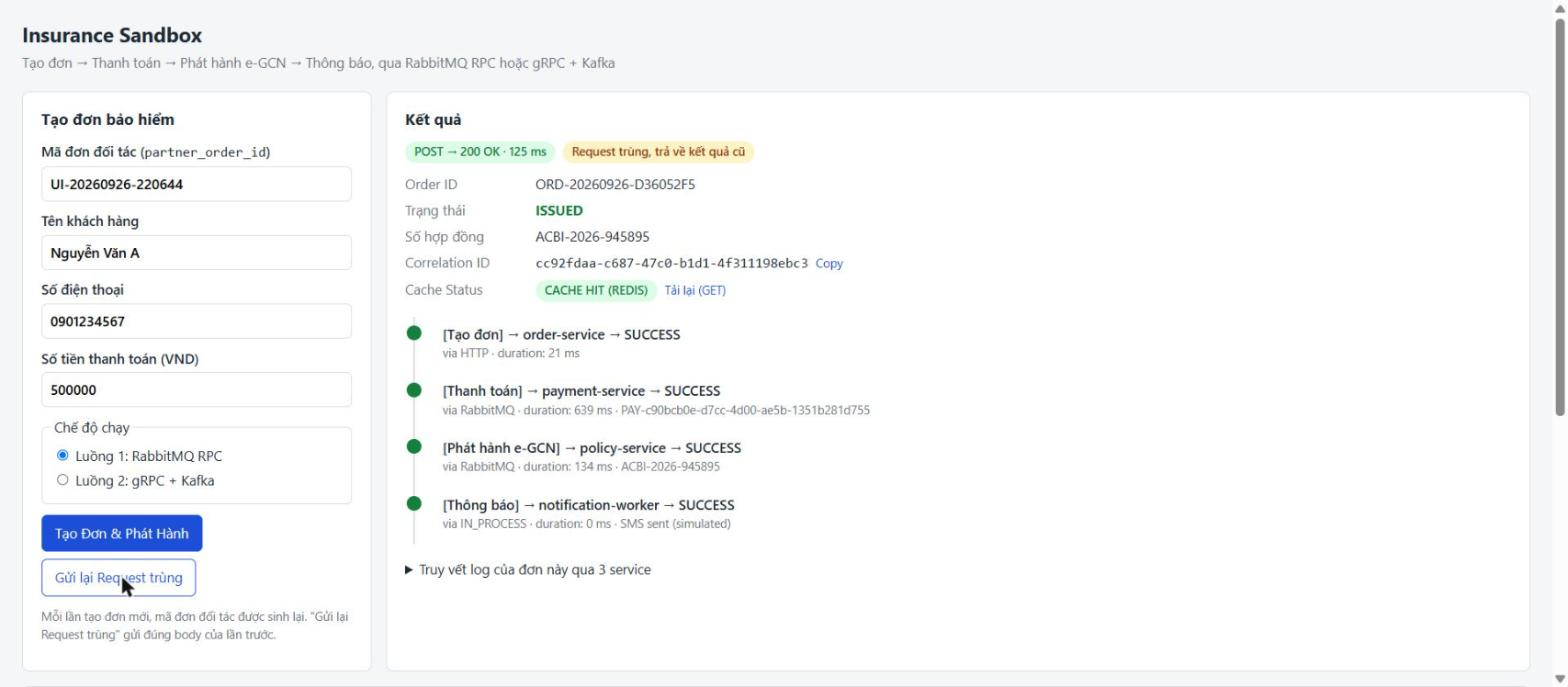
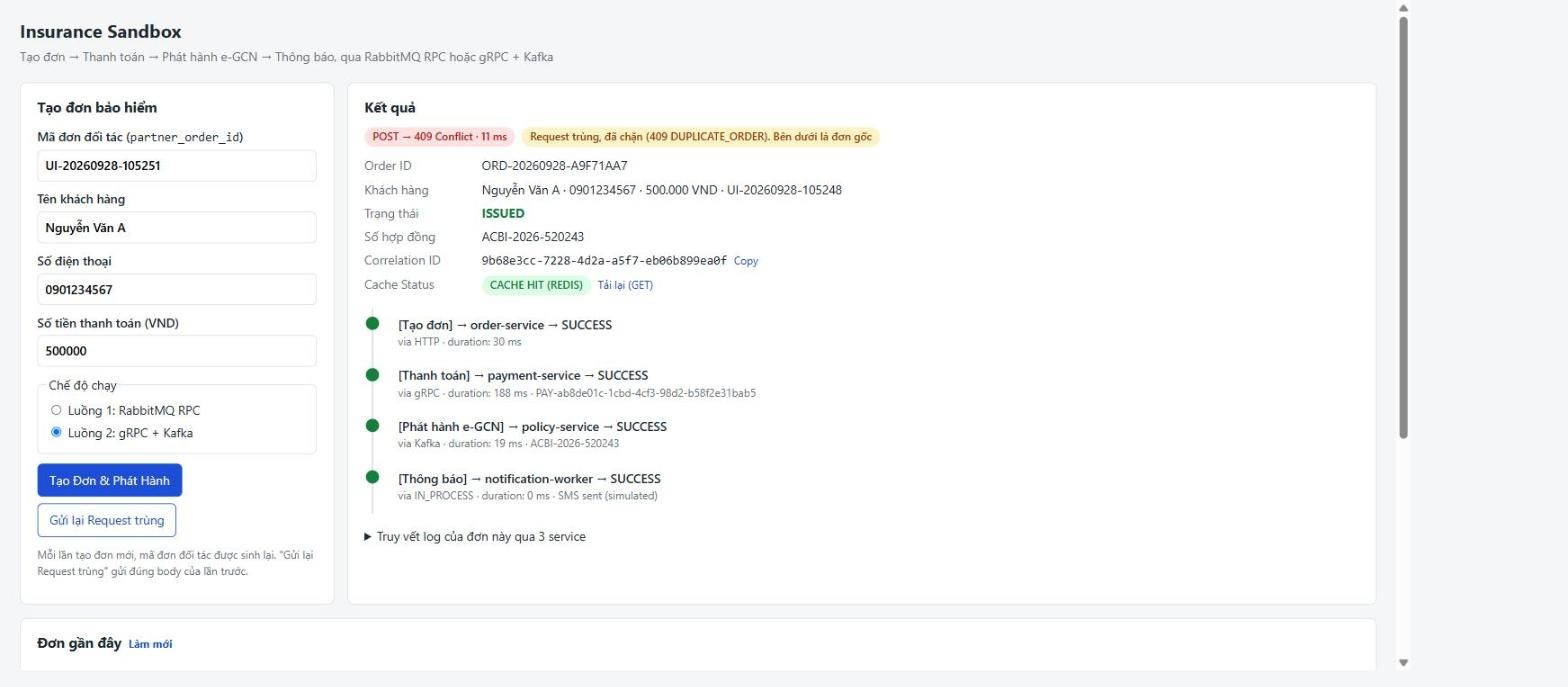
docs: document D21 duplicate refusal, update Postman and screenshot 04
D4 and D21 in design-decisions, README (API table, UI demo step 4, design
decisions), sequence diagram and failure catalog F2. Postman: the duplicate
request expects 409 DUPLICATE_ORDER, a new request checks
DUPLICATE_ORDER_MISMATCH (newman: 7 requests, 9 assertions, 0 failed).
Screenshot 04 retaken with the new badge.

diff --git a/docs/design-decisions.md b/docs/design-decisions.md
@@ -1,4 +1,4 @@
-# Design Decisions (D1–D20)
+# Design Decisions (D1–D21)
 
 > Decisions taken where the assignment (`intern-messaging-grpc-kafka-assignment.md`) is open or contradicts itself, chosen for demo clarity and explainability. Kept in sync with the code; the behaviour-changing ones are also summarised in the README. F-numbers refer to [`implementation-plan.md`](implementation-plan.md).
 
@@ -22,8 +22,8 @@
   - Payment and Policy reply statuses are `RECORDED` / `REJECTED` and `ISSUED`.
   - `REJECTED` is only for invalid payments, such as a bad amount. A **repeated `partner_transaction_id` is not rejected.** Payment returns the **existing** result (`RECORDED`, same `payment_id`) with `duplicate=true`, logs `duplicate_payment_ignored`, and never records a second payment. A caller that retries after a redelivery or a lost reply then gets the correct answer.
   - Input that fails schema validation (missing fields, amount ≤ 0) returns `400` and creates no order.
-  - A duplicate `POST` with the same `partner_order_id` returns **`200 OK` with the original order's current state** plus `"idempotent_replay": true`, and never creates a new order. The UI shows a visible "duplicate, original result returned" badge.
-  - If the duplicate arrives while the original is still being created (the key exists but the order row doesn't yet), the response is `409 Conflict` (D11).
+  - A repeated `POST` with the same `partner_order_id` is **refused with `409`** and never creates a new order: `DUPLICATE_ORDER` when it is identical, `DUPLICATE_ORDER_MISMATCH` when any field differs (D21, replaces the earlier `200` + `idempotent_replay` answer). The UI shows a visible "duplicate, refused" badge next to the original order.
+  - If the duplicate arrives while the original is still being created (the key exists but the order row doesn't yet), the response is `409 ORDER_IN_PROGRESS` (D11).
 
 - **D5: Notification is a simulated in-process step in Order Service (a "Notification Worker" component).**
   - It runs once the order reaches `ISSUED`, in both flows.
@@ -83,7 +83,7 @@ The decisions below come from the failure analysis in `docs/implementation-plan.
   - *Circuit breaker (after Day 4):* one POST makes 4–6 Redis commands, and with Redis down each waited for the 300 ms timeout: about 1.9 s per order instead of ~140 ms. `RedisAvailability` now skips Redis for `sandbox.redis.retry-after` (5 s) after a failure: commands are not sent and not logged, the caller falls back to MySQL at once, and the first command after the window is a real try. `redis_circuit_open` / `redis_circuit_closed` are logged once per outage. No extra library; state is one `AtomicLong`. Measured with Docker: POST with Redis stopped 490 ms for the first order (it pays the failing command), then 176 / 188 ms, against 114–214 ms with Redis up. 5 s is short enough that Redis is used again seconds after it comes back, and long enough that an outage costs one timeout per 5 s instead of one per command.
 - **D13: Forward-only order state transitions (F15), revised Day 3 to match `OrderStatus` from PR #1.** Allowed: `CREATED → PAYMENT_RECORDED`, `CREATED | PAYMENT_RECORDED | PROCESSING_FAILED → ISSUED`, `CREATED | PAYMENT_RECORDED → PROCESSING_FAILED`. Anything else is ignored and logged as `stale_transition_ignored`; the timeline step is still recorded once. Reason: `policy.issued` can overtake the gRPC thread (CREATED → ISSUED), and after a deadline the policy may really be issued, so showing FAILED would be wrong. Documented in the README.
 - **D19 (Day 3): unknown order in `policy.issued` (F22)** throws `OrderNotFoundException`: rollback including the inbox row, 3 retries, then `policy.issued.DLT`. Never acked silently.
-- **D20 (Day 3): Flow 2 HTTP answer.** `202` with the stored status (usually `PAYMENT_RECORDED`, already `ISSUED` if the event won the race); gRPC failure `200 PROCESSING_FAILED`; replay `200`.
+- **D20 (Day 3): Flow 2 HTTP answer.** `202` with the stored status (usually `PAYMENT_RECORDED`, already `ISSUED` if the event won the race); gRPC failure `200 PROCESSING_FAILED`; a repeated `partner_order_id` `409` (D21).
 - **D14: UI polling stops after at most 30 s (F31)** and shows "no result yet, trace with correlation_id".
 - **D15: The UI is static HTML/JS served by nginx (F32).** nginx proxies `/api/` to `order-service:8080`, so the browser sees one origin and CORS is not needed. There is no frontend build step.
 - **D16: Ports.**
@@ -104,6 +104,14 @@ The decisions below come from the failure analysis in `docs/implementation-plan.
   - Order and Payment both depend on `contracts`, so they compile against stubs generated from the same `payment.proto` and cannot drift apart (F16).
   - Small helpers such as `EventEnvelope`, the correlation-id filter and the log formatter are **copied per service**. The contracts between services are the `.proto` and JSON Schemas, never shared Java classes.
 - **D18: Money is an integer amount in VND.** VND has no minor unit, so the amount is `int64 amount` in proto, `integer` in the JSON Schemas, `BIGINT` in MySQL and `long` in Java. Never use `double` or `float` for money.
+- **D21 (lead's requirement, 2026-09-28): a repeated `partner_order_id` is refused with `409`.**
+  - *Rule from the lead:* `partner_order_id` is unique, so it cannot be reused. The first valid request keeps it. A later request with the same data is reported as a duplicate; a later request with different data (e.g. another amount) is a partner-side logic error and is blocked as well.
+  - *Implementation:* before anything else, both flows look the id up (Redis key `idempotency:order:{partner_order_id}`, or MySQL `UNIQUE(partner_order_id)` when Redis is down) and compare all five request fields (`partner_order_id`, `customer_name`, `phone`, `amount`, `mode`) exactly with the stored order.
+    - All equal: `409 DUPLICATE_ORDER` with `order_id` and `order_status` of the stored order, log `duplicate_order_rejected`.
+    - Any different: `409 DUPLICATE_ORDER_MISMATCH` without anything about the stored order, log `duplicate_order_mismatch` with `mismatched_fields` (field names only, never the values). `partner_order_id` is compared too because MySQL finds it case-insensitively (`utf8mb4_unicode_ci`) while Redis does not.
+    - Still being created (key without a committed row): `409 ORDER_IN_PROGRESS` (D11), because there is nothing to compare with yet.
+  - *Difference from the spec:* spec V.1 says "trả về kết quả cũ nếu trùng request". The old answer was `200` with the stored order. It is now an error, but `DUPLICATE_ORDER` still points to the original result (`order_id`, `order_status`; the full order is one `GET /api/v1/orders/{order_id}` away), and the UI shows that original order under the "duplicate, refused" badge. Nothing is charged or issued twice in either case.
+  - *Why not only on a mismatch:* the lead wants every reuse of a unique id to be visible to the partner as an error, not answered as if it were a normal success.
 
 ---
 

diff --git a/docs/implementation-plan.md b/docs/implementation-plan.md
@@ -2,7 +2,7 @@
 
 > File này giải thích **hướng đi**, được viết trước khi code. Các phần có ghi chú "Đã làm" đã được đối chiếu với code thật (Ngày 1, PR #1, Ngày 2). Những phần còn lại vẫn là **phác thảo, chưa chạy thử**. Khi code thật đã chạy được, cập nhật lại file này và `docs/design-decisions.md` bằng số liệu thật.
 >
-> Các mã D1–D20 nằm trong `docs/design-decisions.md`. Sơ đồ luồng xem `docs/sequence-diagrams.md`.
+> Các mã D1–D21 nằm trong `docs/design-decisions.md`. Sơ đồ luồng xem `docs/sequence-diagrams.md`.
 
 Mục lục:
 
@@ -26,7 +26,7 @@ Mỗi dòng gồm: chuyện gì xảy ra, hệ thống phải phản ứng thế
 | ID | Tình huống | Phản ứng mong muốn | Cách tái hiện | Mức |
 |---|---|---|---|---|
 | F1 | Input sai: thiếu trường, `amount ≤ 0`, sai `mode` | `400`, không tạo đơn, không đụng Redis hay broker | Gửi form thiếu trường | Bắt buộc |
-| F2 | Bấm **Gửi lại Request trùng** (gửi tuần tự) | `SET NX` thất bại → trả kết quả đơn gốc, `idempotent_replay=true`, không tạo đơn mới (D4) | Nút trên UI | Bắt buộc |
+| F2 | Bấm **Gửi lại Request trùng** (gửi tuần tự) | Key đã có → so 5 trường với đơn gốc → `409 DUPLICATE_ORDER` (kèm `order_id` gốc) hoặc `409 DUPLICATE_ORDER_MISMATCH` nếu dữ liệu khác; không tạo đơn mới (D21, thay cho `200 idempotent_replay` ban đầu) | Nút trên UI | Bắt buộc |
 | F3 | Hai request trùng đến **cùng lúc** | Chỉ một request giữ được key nhờ `SET NX`. Request kia thấy key nhưng đơn gốc có thể **chưa kịp INSERT** vào DB → trả `409 Conflict` "đơn đang được xử lý" | Gửi 2 request song song bằng script hoặc Postman Runner | Nên có |
 | F4 | Order crash sau khi giữ key Redis nhưng trước khi INSERT đơn | Key "mồ côi" chặn mọi lần thử lại trong 24h. Nếu lỗi có thể bắt được (exception) thì `DEL` key trong khối `catch`. Nếu process chết hẳn thì chấp nhận | Khó tái hiện, chỉ giải thích | Giới hạn |
 | F5 | Redis bị tắt | Tạo đơn: dựa vào `UNIQUE(partner_order_id)` trong MySQL làm lớp chống trùng thứ hai. Đọc đơn: đọc thẳng DB, `cache_status=CACHE_MISS_DB`. Hệ thống chậm hơn nhưng **không sập** | `docker compose stop redis` | Nên có |
@@ -223,7 +223,7 @@ thuc-tap-file/
 ├── .gitignore                      # target/, .idea/, *.iml, .env.local
 ├── README.md
 ├── docs/
-│   ├── design-decisions.md         # D1–D20
+│   ├── design-decisions.md         # D1–D21
 │   ├── sequence-diagrams.md
 │   └── implementation-plan.md      # file này
 ├── docker/

diff --git a/docs/sequence-diagrams.md b/docs/sequence-diagrams.md
@@ -1,6 +1,6 @@
 # Sơ đồ Sequence mở rộng
 
-Hai sơ đồ dưới đây mở rộng sơ đồ trong `intern-messaging-grpc-kafka-assignment.md`, bổ sung các nhánh lỗi, cơ chế chống trùng và hành vi cache. Các mã D1–D20 nằm trong `docs/design-decisions.md`.
+Hai sơ đồ dưới đây mở rộng sơ đồ trong `intern-messaging-grpc-kafka-assignment.md`, bổ sung các nhánh lỗi, cơ chế chống trùng và hành vi cache. Các mã D1–D21 nằm trong `docs/design-decisions.md`.
 
 Khối `break` nghĩa là luồng **dừng tại đó** và trả kết quả về ngay.
 
@@ -28,10 +28,10 @@ sequenceDiagram
 
     Note over Order,Redis: Ngày 2 chưa có Redis: tra partner_order_id trong order_db; hai request đồng thời thì request thua INSERT (UNIQUE) nhận 409 (D11, D12)
     Order->>Redis: SET idempotency:order:{partner_order_id} {order_id} NX EX 86400
-    break Key đã tồn tại (request trùng)
+    break Key đã tồn tại (request trùng, D21)
         Redis-->>Order: nil, GET key lấy order_id gốc
-        Order->>ODB: Đọc đơn gốc
-        Order-->>UI: 200 OK, kết quả đơn gốc, idempotent_replay=true
+        Order->>ODB: Đọc đơn gốc, so 5 trường của request
+        Order-->>UI: 409 DUPLICATE_ORDER (kèm order_id gốc) hoặc 409 DUPLICATE_ORDER_MISMATCH (dữ liệu khác)
     end
     Redis-->>Order: OK (giữ key thành công)
     Order->>ODB: INSERT order (CREATED), timeline [Tạo đơn]
@@ -113,7 +113,7 @@ sequenceDiagram
     UI->>Order: POST /api/v1/orders (mode=GRPC_KAFKA)
     Order->>Order: Validate schema, sinh order_id, correlation_id, partner_transaction_id
     Order->>Redis: SET idempotency:order:{partner_order_id} {order_id} NX EX 86400
-    Note right of Order: Input sai → 400, request trùng → 200 idempotent_replay (giống hệt Luồng 1)
+    Note right of Order: Input sai → 400, request trùng → 409 DUPLICATE_ORDER / DUPLICATE_ORDER_MISMATCH (giống hệt Luồng 1, D21)
     Order->>ODB: INSERT order (CREATED), timeline [Tạo đơn]
 
     Note over Order,Pay: Bước 1 - gRPC đồng bộ (cần kết quả thanh toán ngay)
